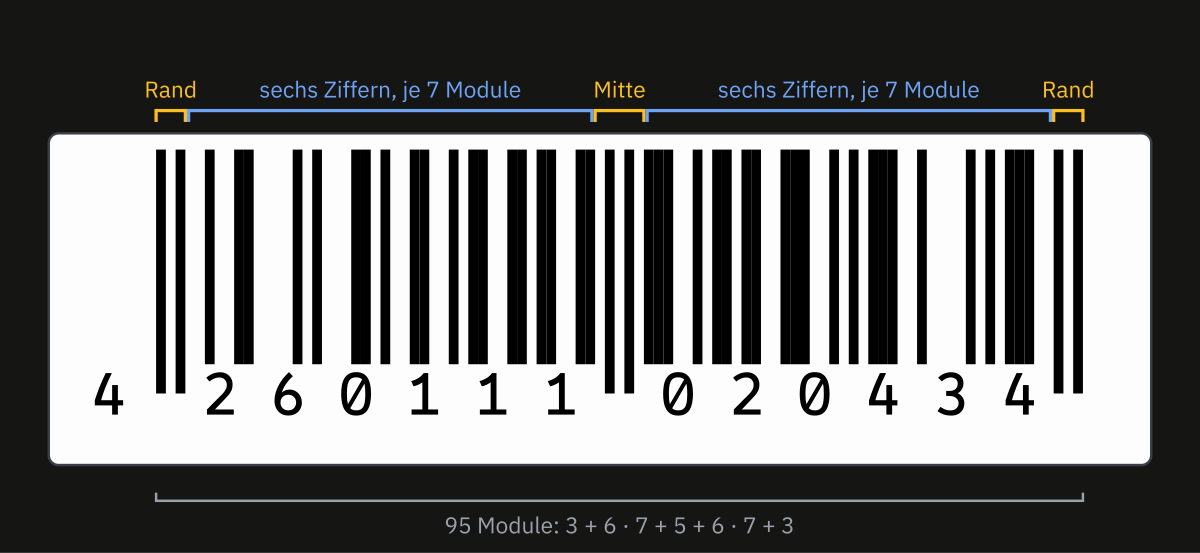
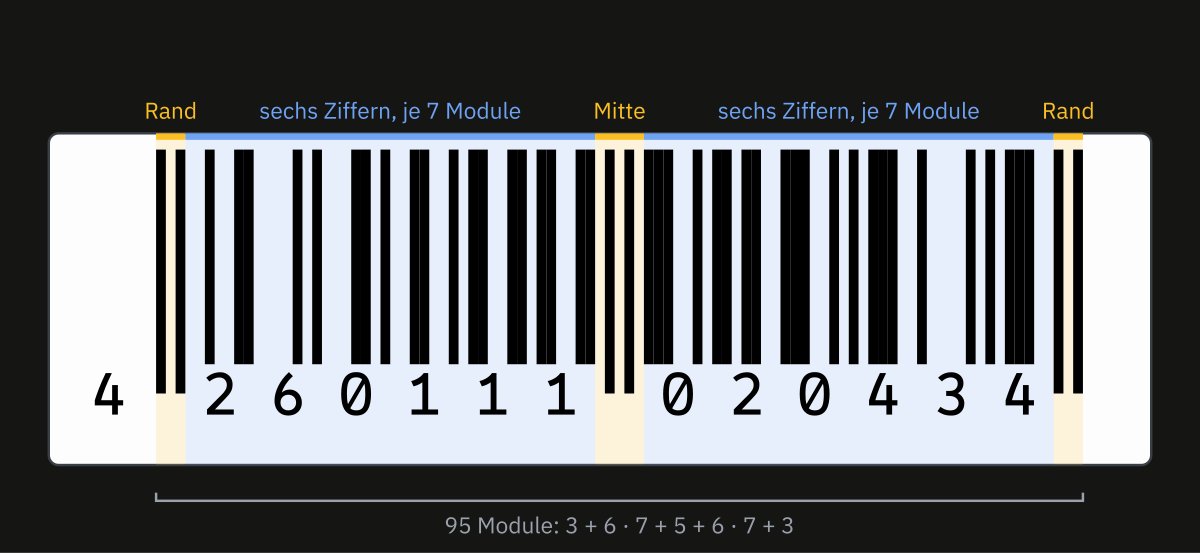
Prüfziffern: the barcode's parts as pale bands behind the bars (edges and middle orange, the two halves blue) instead of brackets above it

Changed region(s): [[0.1233, 0.123, 0.925, 0.8608]]

diff --git a/src/scripts/ean-barcode.py b/src/scripts/ean-barcode.py
@@ -79,12 +79,13 @@ def text(x, y, content, size=15, colour=INK, anchor='middle', family=SANS, weigh
             f'font-size="{size}" font-weight="{weight}" fill="{colour}">{content}</text>')
 
 
-def bracket(x0, x1, y, colour, label, lines=1):
-    """A bracket over the modules x0..x1, its label above it."""
-    out = [f'<path d="M{x0:.1f} {y + 7} V{y} H{x1:.1f} V{y + 7}" fill="none" stroke="{colour}" stroke-width="2"/>']
-    for i, line in enumerate(label.split('\n')):
-        out.append(text((x0 + x1) / 2, y - 8 - 17 * (len(label.split('\n')) - 1 - i), line, 14, colour))
-    return ''.join(out)
+def region(x0, x1, y0, y1, colour, label):
+    """A part of the code: a pale band of its colour behind the bars from
+    x0 to x1, its name above it. The band is the colour itself, faint, so
+    that it stays pale on the white label in dark mode too."""
+    return (f'<rect x="{x0:.1f}" y="{y0}" width="{x1 - x0:.1f}" height="{y1 - y0}" fill="{colour}" fill-opacity="0.16"/>'
+            f'<rect x="{x0:.1f}" y="{y0}" width="{x1 - x0:.1f}" height="4" fill="{colour}"/>'
+            + text((x0 + x1) / 2, y0 - 9, label, 14, colour))
 
 
 def aufbau(code, unit=6):
@@ -97,6 +98,12 @@ def aufbau(code, unit=6):
     width = x0 + 95 * unit + 7 * unit + margin
     out = [f'<rect width="{width}" height="{top + guard_h + 70}" fill="#ffffff"/>',
            f'<rect x="{margin}" y="{top - 10}" width="{width - 2 * margin}" height="{guard_h + 10 + size + 8}" rx="6" fill="{LABEL}" stroke="{LINE}" stroke-width="1.5"/>']
+    # the parts behind the bars, over the whole height of the label
+    m = lambda i: x0 + i * unit
+    y0, y1 = top - 10, top + guard_h + size + 8
+    for a, b, colour, label in [(0, 3, AMBER, 'Rand'), (3, 45, BLUE, 'sechs Ziffern, je 7 Module'), (45, 50, AMBER, 'Mitte'),
+                                (50, 92, BLUE, 'sechs Ziffern, je 7 Module'), (92, 95, AMBER, 'Rand')]:
+        out.append(region(m(a), m(b), y0, y1, colour, label))
     x = x0
     for pattern, guard in modules(code):
         for bit in pattern:
@@ -108,13 +115,6 @@ def aufbau(code, unit=6):
     for k in range(6):
         out.append(text(x0 + (3 + 7 * k + 3.5) * unit, y_text, code[1 + k], size, BAR, 'middle', MONO))
         out.append(text(x0 + (50 + 7 * k + 3.5) * unit, y_text, code[7 + k], size, BAR, 'middle', MONO))
-    m = lambda i: x0 + i * unit
-    y = top - 24
-    out.append(bracket(m(0), m(3), y, AMBER, 'Rand'))
-    out.append(bracket(m(3) + 2, m(45) - 2, y, BLUE, 'sechs Ziffern, je 7 Module'))
-    out.append(bracket(m(45), m(50), y, AMBER, 'Mitte'))
-    out.append(bracket(m(50) + 2, m(92) - 2, y, BLUE, 'sechs Ziffern, je 7 Module'))
-    out.append(bracket(m(92), m(95), y, AMBER, 'Rand'))
     # 95 modules: a scale under the label
     yb = top + guard_h + size + 30
     out.append(f'<path d="M{m(0)} {yb - 5} V{yb} H{m(95)} V{yb - 5}" fill="none" stroke="{GREY}" stroke-width="1.5"/>')

diff --git a/src/content/check-digits/check-digits.md b/src/content/check-digits/check-digits.md
@@ -6,6 +6,7 @@ duration: 2 Doppelstunden
 languages: [ruby, python]
 curriculum: "Sek I: Algorithmisches Problemlösen (Eigenschaften und Darstellung von Algorithmen, Implementieren von Algorithmen), Information und Daten (Codierung: Strichcode); Oberstufe: Algorithmen und Softwareentwicklung (Struktogramm, Pseudocode)"
 topics: [fehlererkennung, codierung, darstellung]
+age: Sek I
 requires: [kata-lists]
 reference: [struktogramme]
 </div>
@@ -85,7 +86,7 @@ in 95 gleich breite Streifen geteilt, die **Module**. Jedes Modul ist dunkel
 oder hell, also eine 1 oder eine 0; ein breiter Strich sind mehrere dunkle
 Module nebeneinander.
 
-<img class='drawing' style='width: 37.5em' src='aufbau.webp' alt='Der Strichcode der Nudeln, 4 260111 020434, auf einem weißen Etikett. Darüber Klammern: am linken und rechten Rand je drei Module »Rand«, in der Mitte fünf Module »Mitte«, dazwischen links und rechts je »sechs Ziffern, je 7 Module«. Die Striche von Rand und Mitte reichen weiter nach unten als die anderen. Darunter eine Klammer über den ganzen Code: 95 Module, 3 + 6 · 7 + 5 + 6 · 7 + 3.'>
+<img class='drawing' style='width: 37.5em' src='aufbau.webp' alt='Der Strichcode der Nudeln, 4 260111 020434, auf einem weißen Etikett. Farbige Flächen hinter den Strichen zeigen die Teile: am linken und rechten Rand je drei Module »Rand« und in der Mitte fünf Module »Mitte«, orange, dazwischen links und rechts je »sechs Ziffern, je 7 Module«, blau. Die Striche von Rand und Mitte reichen weiter nach unten als die anderen. Darunter eine Klammer über den ganzen Code: 95 Module, 3 + 6 · 7 + 5 + 6 · 7 + 3.'>
 
 Am Rand und in der Mitte stehen feste Muster: `101` links und rechts, `01010`
 in der Mitte. Ihre Striche reichen weiter nach unten als die anderen. An ihnen
